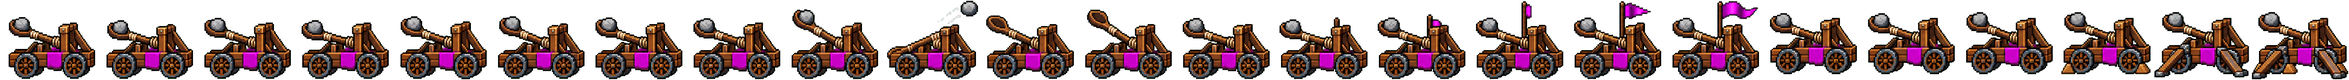
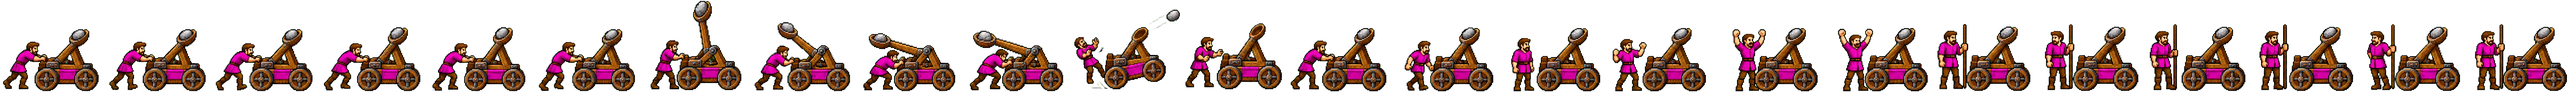
Animate the catapult from the user's redrawn sheet, its crewman winching and loosing the arm
The cutter registers the catapult by its wheels (the crewman crouches and
stumbles about the cart), and keeps a piece lying across a cell's edge whole
with the piece nearest it (the loosed stone with its trail) unless a thin seam
shows two drawings touching. The shot is eased over six frames and drops in a
short arc from where the sheet draws the stone, high over the foe.

diff --git a/tools/sprites/units/anim.ts b/tools/sprites/units/anim.ts
@@ -33,7 +33,7 @@ const here = (p: string) => resolve(fileURLToPath(new URL(p, import.meta.url)));
  * when drawn on a green screen; `align`, runs of frames (first, last) to put in register by the part of the figure that
  * stays put in them (`register`), with the `home` frame (the one the unit stands in).
  */
-type Align = [first: string, last: string, by: "legs" | "body"];
+type Align = [first: string, last: string, by: "legs" | "body" | "wheels"];
 type Sheet = { rows: string[][]; cell?: number; green?: boolean; align?: Align[]; home?: string };
 
 /**
@@ -100,7 +100,9 @@ const SHEETS: Record<string, Sheet> = {
   // follow-through 35 ahead, the walk drifting back 27 over its six steps): the walk by its body, the thrust, the
   // cheer and the watch by the feet planted under them; the kneeling as drawn, behind the shield that stays put.
   phalanx: oneSheet({ travel: "body", attack: "legs", won: "legs" }, ["lowering", "kneeling", "shield-wall"]),
-  catapult: oneSheet({ travel: "legs", attack: "legs", won: "legs" }),
+  // Its crewman crouches, steps away and stumbles back about the cart, so every run by the wheels (the cart drawn up
+  // to 14 pixels off from frame to frame; its loosed stone lies across the next cell's edge, kept with its trail).
+  catapult: oneSheet({ travel: "wheels", attack: "wheels", won: "wheels", fortify: "wheels" }),
 };
 /** Alpha over which a pixel is the frame's own (under it: soft edges, kept with their frame). */
 const SOLID = 64;
@@ -109,6 +111,8 @@ const SPECK = 500;
 const GRID_SPECK = 20;
 /** On a grid, a piece with at least this share of itself on each side of a cell's edge is two frames' drawings touching. */
 const STRADDLE = 0.1;
+/** ... and is split there only at a column this many times thinner than its thickest. */
+const THIN = 3;
 /** Pixels kept round each frame's bounds, and round the drawings on the canvas. */
 const MARGIN = 2;
 /** How far a soft pixel looks for the frame it belongs to. */
@@ -117,6 +121,8 @@ const REACH = 4;
 const FOOT_ROWS = 4;
 /** In registering frames, the share of the home frame's height (from the ground) that is its legs; the body is above it. */
 const LEGS = 0.45;
+/** ... and that is its wheels. */
+const WHEELS = 0.25;
 
 type Box = { x: number; y: number; w: number; h: number };
 const tuple = (b: Box) => `[${b.x}, ${b.y}, ${b.w}, ${b.h}]`;
@@ -167,7 +173,9 @@ function cut(unit: string, rows: string[][], cell?: number, green?: boolean, ali
   };
   if (cell) {
     // Drawings of two frames that touch across a cell's edge: split at the piece's thinnest column within an
-    // eighth of a cell of the edge.
+    // eighth of a cell of the edge, where it is thin (a third of its thickest column or less) and leaves a share of
+    // it each side. One with no such column is one thing lying across the edge (the catapult's stone flying off).
+    const astride = new Set<number>();
     for (const p of pieces.slice()) {
       for (let edge = (Math.floor(p.x / cell) + 1) * cell; edge <= p.x1; edge += cell) {
         const across = new Map<number, number>();
@@ -176,8 +184,13 @@ function cut(unit: string, rows: string[][], cell?: number, green?: boolean, ali
           for (let x = p.x; x <= p.x1; x++)
             if (owner[y * W + x] === p.id) { across.set(x, (across.get(x) ?? 0) + 1); if (x < edge) left++; }
         if (left < p.n * STRADDLE || p.n - left < p.n * STRADDLE) continue;
-        let seam = edge;
-        for (let x = edge - cell / 8; x <= edge + cell / 8; x++) if ((across.get(x) ?? 0) < (across.get(seam) ?? 0)) seam = x;
+        const thickest = Math.max(...across.values());
+        let seam = -1, before = 0;
+        for (let x = p.x; x <= Math.min(p.x1, edge + cell / 8); before += across.get(x) ?? 0, x++) {
+          if (x < edge - cell / 8 || before < p.n * STRADDLE || p.n - before < p.n * STRADDLE) continue;
+          if (seam < 0 || (across.get(x) ?? 0) < (across.get(seam) ?? 0)) seam = x;
+        }
+        if (seam < 0 || (across.get(seam) ?? 0) > thickest / THIN) { astride.add(p.id); continue; }
         const q = { id: pieces.length, x: W, y: H, x1: -1, y1: -1, w: 0, h: 0, n: 0 };
         const kept = { x: W, y: H, x1: -1, y1: -1, n: 0 };
         for (let y = p.y; y <= p.y1; y++)
@@ -202,10 +215,34 @@ function cut(unit: string, rows: string[][], cell?: number, green?: boolean, ali
       m[0] += i % W; m[1] += Math.floor(i / W);
       middle.set(o, m);
     }
+    // A piece lying across an edge goes with the piece nearest it (the stone with its trail), whose middle says where.
+    const nearest = (p: Piece): number => {
+      const seen = new Uint8Array(W * H);
+      let front: number[] = [];
+      for (let y = p.y; y <= p.y1; y++) for (let x = p.x; x <= p.x1; x++) if (owner[y * W + x] === p.id) { seen[y * W + x] = 1; front.push(y * W + x); }
+      for (let step = 0; step < cell / 4 && front.length; step++) {
+        const next: number[] = [];
+        for (const i of front)
+          for (let dy = -1; dy <= 1; dy++)
+            for (let dx = -1; dx <= 1; dx++) {
+              const x = (i % W) + dx, y = Math.floor(i / W) + dy, j = y * W + x;
+              if (x < 0 || y < 0 || x >= W || y >= H || seen[j]) continue;
+              seen[j] = 1;
+              const o = owner[j]!;
+              if (o >= 0 && !astride.has(o)) return o;
+              next.push(j);
+            }
+        front = next;
+      }
+      throw new Error(`${unit}: a piece at ${p.x},${p.y} lies across a cell's edge with nothing near it`);
+    };
     const cells: Piece[][] = rows.flatMap((r) => r.map(() => []));
     const specks: Piece[][] = rows.flatMap((r) => r.map(() => []));
     for (const p of pieces) {
-      const [sx, sy] = middle.get(p.id)!;
+      const by = astride.has(p.id) ? pieces[nearest(p)]! : p;
+      if (by !== p) console.log(`  a piece across a cell's edge at ${p.x}-${p.x1},${p.y}-${p.y1} goes with the one at ${by.x}-${by.x1},${by.y}-${by.y1}`);
+      const [mx, my] = middle.get(by.id)!;
+      const [sx, sy] = [(mx / by.n) * p.n, (my / by.n) * p.n];
       const col = Math.floor(sx / p.n / cell), row = Math.floor(sy / p.n / cell);
       const named = row < rows.length && col < rows[row]!.length;
       const n = named ? rows.slice(0, row).reduce((a, r) => a + r.length, 0) + col : -1;
@@ -277,9 +314,11 @@ function cut(unit: string, rows: string[][], cell?: number, green?: boolean, ali
 
   // Frames drawn out of register (a generated sheet sets its figure a little differently in each cell, so it would
   // shuffle to and fro as it moves): each run named in `align` put in register by the part of the figure that stays put
-  // in it, its legs (a thrust, a cheer: the feet planted) or its body above them (a walk: the legs swing under a body
-  // going steadily on), each frame with the run's first and that with the home frame, by the shift across that lays
-  // most of their pixels in that part on each other's (the smaller shift on a tie). Only the anchors move.
+  // in it, its legs (a thrust, a cheer: the feet planted), its body above them (a walk: the legs swing under a body
+  // going steadily on) or its wheels, the lowest quarter of it (an engine's, which outweigh its crew's feet there as
+  // they crouch and stumble behind it; its cart rocking up off its front wheel as it shoots kicks back), each frame
+  // with the run's first and that with the home frame, by the shift across that lays most of their pixels in that part
+  // on each other's (the smaller shift on a tie). Only the anchors move.
   if (align?.length) {
     const names = rows.flat();
     const at = (name: string) => {
@@ -305,7 +344,7 @@ function cut(unit: string, rows: string[][], cell?: number, green?: boolean, ali
     const knee = R - Math.round(LEGS * tall);
     // How far across frame b's figure stands from frame a's, by the part `by`.
     const register = (a: number, b: number, by: Align[2]): number => {
-      const [y0, y1] = by === "legs" ? [knee, R] : [R - tall, knee];
+      const [y0, y1] = by === "body" ? [R - tall, knee] : by === "legs" ? [knee, R] : [R - Math.round(WHEELS * tall), R];
       let best = 0, most = -1;
       for (let k = 0; k <= R / 2; k++) {
         const s = k % 2 ? (k + 1) / 2 : -k / 2;

diff --git a/packages/renderer-api/src/unit-atlas.ts b/packages/renderer-api/src/unit-atlas.ts
@@ -134,33 +134,33 @@ export const UNIT_ATLASES: Record<string, UnitAtlas> = {
     ],
   },
   catapult: {
-    size: [249, 206],
-    anchor: [124, 204],
+    size: [273, 236],
+    anchor: [127, 234],
     frames: [
-      { name: "travel-1", source: [24, 56, 224, 163], anchor: [128, 218], box: [22, 44, 220, 159] },
-      { name: "travel-2", source: [280, 64, 224, 155], anchor: [384, 218], box: [22, 52, 220, 151] },
-      { name: "travel-3", source: [536, 58, 224, 161], anchor: [640, 218], box: [22, 46, 220, 157] },
-      { name: "travel-4", source: [790, 64, 226, 155], anchor: [896, 218], box: [20, 52, 222, 151] },
-      { name: "travel-5", source: [1048, 54, 225, 166], anchor: [1152, 218], box: [22, 42, 221, 162] },
-      { name: "travel-6", source: [1304, 54, 224, 165], anchor: [1408, 218], box: [22, 42, 220, 161] },
-      { name: "ready", source: [23, 313, 225, 163], anchor: [128, 474], box: [21, 45, 221, 159] },
-      { name: "anticipation", source: [279, 315, 225, 161], anchor: [384, 474], box: [21, 47, 221, 157] },
-      { name: "wind-up", source: [536, 292, 224, 184], anchor: [640, 474], box: [22, 24, 220, 180] },
-      { name: "strike", source: [786, 270, 235, 206], anchor: [896, 474], box: [16, 2, 231, 202] },
-      { name: "follow-through", source: [1045, 307, 227, 168], anchor: [1152, 474], box: [19, 39, 223, 164] },
-      { name: "recovery", source: [1304, 293, 224, 182], anchor: [1408, 474], box: [22, 25, 220, 178] },
-      { name: "won-1", source: [23, 569, 225, 162], anchor: [128, 729], box: [21, 46, 221, 158] },
-      { name: "won-2", source: [276, 568, 228, 163], anchor: [384, 729], box: [18, 45, 224, 159] },
-      { name: "won-3", source: [533, 560, 227, 171], anchor: [640, 729], box: [19, 37, 223, 167] },
-      { name: "won-4", source: [790, 526, 226, 205], anchor: [896, 729], box: [20, 3, 222, 201] },
-      { name: "won-5", source: [1046, 526, 226, 205], anchor: [1152, 729], box: [20, 3, 222, 201] },
-      { name: "won-6", source: [1304, 526, 224, 205], anchor: [1408, 729], box: [22, 3, 220, 201] },
-      { name: "sentry-1", source: [23, 819, 225, 161], anchor: [128, 991], box: [21, 34, 221, 157] },
-      { name: "sentry-2", source: [279, 819, 225, 161], anchor: [384, 991], box: [21, 34, 221, 157] },
-      { name: "sentry-3", source: [536, 816, 225, 164], anchor: [640, 991], box: [22, 31, 221, 160] },
-      { name: "fortify-1", source: [785, 816, 231, 164], anchor: [896, 991], box: [15, 31, 227, 160] },
-      { name: "fortify-2", source: [1029, 816, 245, 173], anchor: [1152, 991], box: [3, 31, 241, 169] },
-      { name: "fortify-3", source: [1284, 816, 249, 177], anchor: [1408, 991], box: [2, 31, 245, 173] },
+      { name: "travel-1", source: [6, 50, 247, 163], anchor: [127, 211], box: [8, 75, 243, 159] },
+      { name: "travel-2", source: [261, 50, 249, 163], anchor: [385, 211], box: [5, 75, 245, 159] },
+      { name: "travel-3", source: [516, 50, 250, 163], anchor: [642, 211], box: [3, 75, 246, 159] },
+      { name: "travel-4", source: [774, 45, 249, 168], anchor: [898, 211], box: [5, 70, 245, 164] },
+      { name: "travel-5", source: [1035, 45, 240, 168], anchor: [1156, 211], box: [8, 70, 236, 164] },
+      { name: "travel-6", source: [1284, 50, 249, 163], anchor: [1408, 211], box: [5, 75, 245, 159] },
+      { name: "ready", source: [16, 251, 235, 233], anchor: [128, 485], box: [17, 2, 231, 229] },
+      { name: "anticipation", source: [268, 306, 247, 181], anchor: [389, 485], box: [8, 57, 243, 177] },
+      { name: "wind-up", source: [536, 334, 238, 153], anchor: [653, 485], box: [12, 85, 234, 149] },
+      { name: "strike", source: [784, 328, 241, 159], anchor: [903, 485], box: [10, 79, 237, 155] },
+      { name: "follow-through", source: [1027, 274, 273, 208], anchor: [1154, 485], box: [2, 25, 269, 204] },
+      { name: "recovery", source: [1277, 309, 250, 173], anchor: [1394, 485], box: [12, 60, 246, 169] },
+      { name: "won-1", source: [6, 565, 247, 166], anchor: [128, 729], box: [7, 72, 243, 162] },
+      { name: "won-2", source: [281, 563, 229, 168], anchor: [386, 729], box: [24, 70, 225, 164] },
+      { name: "won-3", source: [536, 565, 230, 166], anchor: [643, 729], box: [22, 72, 226, 162] },
+      { name: "won-4", source: [777, 565, 241, 166], anchor: [899, 729], box: [7, 72, 237, 162] },
+      { name: "won-5", source: [1056, 565, 220, 166], anchor: [1146, 729], box: [39, 72, 216, 162] },
+      { name: "won-6", source: [1302, 565, 232, 166], anchor: [1397, 729], box: [34, 72, 228, 162] },
+      { name: "sentry-1", source: [13, 792, 240, 176], anchor: [128, 966], box: [14, 62, 236, 172] },
+      { name: "sentry-2", source: [268, 792, 242, 175], anchor: [383, 966], box: [14, 62, 238, 171] },
+      { name: "sentry-3", source: [519, 792, 247, 176], anchor: [640, 966], box: [8, 62, 243, 172] },
+      { name: "fortify-1", source: [779, 792, 242, 176], anchor: [894, 966], box: [14, 62, 238, 172] },
+      { name: "fortify-2", source: [1036, 792, 240, 175], anchor: [1150, 966], box: [15, 62, 236, 171] },
+      { name: "fortify-3", source: [1294, 792, 238, 175], anchor: [1407, 966], box: [16, 62, 234, 171] },
     ],
   },
 };

diff --git a/packages/renderer-api/tests/unit-anim.test.ts b/packages/renderer-api/tests/unit-anim.test.ts
@@ -234,7 +234,7 @@ describe("the catapult's atlas", () => {
   const move = UNIT_ANIMS.catapult!;
   const frame = (name: string) => catapult.frames.find((f) => f.name === name)!;
 
-  it("has the sheet's 24 frames in the one sheet's rows, drawn in register: each its cell's middle on its row's ground", () => {
+  it("has the sheet's 24 frames in the one sheet's rows, put in register by the wheels: each near its cell's middle on its row's ground", () => {
     expect(catapult.frames.map((f) => f.name)).toEqual([
       ...[1, 2, 3, 4, 5, 6].map((n) => `travel-${n}`),
       "ready", "anticipation", "wind-up", "strike", "follow-through", "recovery",
@@ -245,15 +245,20 @@ describe("the catapult's atlas", () => {
     catapult.frames.forEach((f, n) => {
       const [x, y, bw, bh] = f.box;
       expect(x >= 0 && y >= 0 && x + bw <= w && y + bh <= h, f.name).toBe(true);
-      expect(f.anchor[0], f.name).toBe((n % 6) * 256 + 128);
+      // The cart drawn a little off from cell to cell, its wheels laid on the standing frame's (the cutter's `align`).
+      expect(Math.abs(f.anchor[0] - ((n % 6) * 256 + 128)), f.name).toBeLessThanOrEqual(16);
+      expect(f.anchor[1], f.name).toBe(catapult.frames[n - (n % 6)]!.anchor[1]);
     });
-    // The stone loosed on the strike flies off with its trail, the dots at its tail too, above the arm drawn down.
-    expect(frame("strike").box[1]).toBeLessThan(frame("ready").box[1]);
-    expect(frame("strike").source[0]).toBeLessThanOrEqual(917);
+    // The stone loosed on the release flies off with its trail, lying across the next cell's edge: kept with the
+    // release (its source reaching past the edge and up to the stone), not the frame after it.
+    const [rx, ry, rw] = frame("follow-through").source;
+    expect(rx + rw).toBeGreaterThan(1280 + 16);
+    expect(ry).toBeLessThanOrEqual(276);
+    expect(frame("recovery").source[1]).toBeGreaterThan(305);
   });
 
   it("plays the one sheet's moves, between as wide and as much of its square as the catapult's picture stood", () => {
-    expect(move).toMatchObject({ idle: 18, fortified: 23, ownerColour: false, attack: { impact: 2 } });
+    expect(move).toMatchObject({ idle: 18, fortified: 23, ownerColour: false, attack: { frames: [6, 7, 8, 9, 10, 11], impact: 4 } });
     expect(move.travel!.frames).toEqual(UNIT_ANIMS.phalanx!.travel!.frames);
     const b = unitArtPlace({ id: "catapult", unit: true, x: 0, y: 0, w: 16, h: 16 })!;
     const k = b.w / catapult.size[0];
@@ -471,10 +476,10 @@ describe("UnitAnimator", () => {
     expect(m.at(shot.releaseMs - 1).battle!.shot).toBeUndefined();
     const leaving = m.at(shot.releaseMs).battle!.shot!;
     expect([leaving.x, leaving.y]).toEqual([10 + shot.from.x, 10 + shot.from.y]);
-    // It rises above the straight way, its shadow on the ground under it, and comes down before the foe's feet.
+    // It arcs above the straight way, its shadow on the ground under it, and comes down before the foe's feet.
     const mid = m.at((shot.releaseMs + land) / 2).battle!.shot!;
     expect(mid.y).toBeCloseTo((leaving.y + 10.9) / 2 - UNIT_ANIMS.catapult!.attack!.shot!.arc, 6);
-    expect(mid.y).toBeLessThan(leaving.y - 0.2);
+    expect(mid.y).toBeLessThan((leaving.y + 10.9) / 2 - 0.2);
     expect(mid.ground).toBeGreaterThan(mid.y);
     const down = m.at(land + 1).battle!;
     expect(down.shot).toMatchObject({ x: 11.2, y: 10.9 });
@@ -511,11 +516,13 @@ describe("UnitAnimator", () => {
     for (let t = 0; t < 1200; t += 50) expect(anim2.update(state, d.at(t).battle, t).frames[c.id]).toBe(UNIT_ANIMS.catapult!.idle);
   });
 
-  it("eases the catapult's shot in and out: held, drawn up slowly, quick as the stone leaves, settling slowly", () => {
-    const [ready, drawn, loosed, recoil, spent] = UNIT_ANIMS.catapult!.attack!.ms as [number, number, number, number, number];
-    expect(loosed).toBeLessThan(Math.min(ready, drawn, recoil, spent));
-    expect(ready + drawn).toBeGreaterThan(600);
-    expect(spent).toBeGreaterThan(recoil);
+  it("eases the catapult's shot in and out: raised and winched down slowly, held longest, quick as the stone leaves, settling slowly", () => {
+    const [raised, drawn, cocked, held, loosed, spent] = UNIT_ANIMS.catapult!.attack!.ms as [number, number, number, number, number, number];
+    expect(loosed).toBeLessThan(Math.min(raised, drawn, cocked, held, spent));
+    expect(raised + drawn + cocked + held).toBeGreaterThan(900);
+    expect(held).toBeGreaterThan(Math.max(raised, drawn, cocked));
+    expect(Math.min(raised, cocked)).toBeGreaterThan(drawn);
+    expect(spent).toBeGreaterThan(held);
   });
 });
 

diff --git a/packages/renderer-api/src/unit-anim.ts b/packages/renderer-api/src/unit-anim.ts
@@ -149,18 +149,21 @@ export const UNIT_ANIMS: Record<string, UnitAnimRule> = {
   // a square): its shield (67x80 here, 71x76 there: 290) and its crest to its feet (209 here, 198 there: 302) between
   // them. The still picture's spear is drawn longer, so the sheet's stands a little shorter in the square.
   phalanx: oneSheet(296),
-  // The catapult (2026-10-31, the user's sheet: "implement attached catapult states"): rolling on its turning wheels;
-  // the arm drawn down, swung up to loose the stone (the stone and its trail on the strike), empty after; a flag run up
-  // as it wins; still on watch; fortifying, its wheels chocked and props braced out. Drawn lower and longer than the
-  // catapult's picture on the units sheet (221x157 here, 192x197 there at 240 a square), so between as wide as that
-  // (276) and as much of the square (230). Its shot (asked for the same day: "too fast. should be with ease in-out.
-  // slow prepare to fire - than throw stone", then "still very bad": it lunged onto its foe, jiggled with every blow and
-  // its stone went nowhere): it stands its ground and shoots once a fight, holding the loaded arm, drawing it up
-  // slowly, then quick as the stone leaves (the sheet's frame of it; its second loaded frame is the first again, left
-  // out), the spent arm settling slowly; the stone flies on from where the sheet draws it (41 pixels across, its middle
-  // 100 right of the frame's foot and 183 above) to its foe's feet, and the first blow lands with it (`strikeMs`).
+  // The catapult (2026-10-31, the user's sheet: "implement attached catapult states", redrawn the same day with its
+  // crewman: "implement attached updated catapult sprite-sheet"): he pushes it on its turning wheels; raises the loaded
+  // arm upright, winches it back and down to cocked, holds it, and lets go: the arm slams up, the stone flies off with
+  // its trail, the cart bucks and he stumbles back; then it rests empty; he steps away from it and cheers, arms up; he
+  // stands watch beside it with his staff. As wide as the first sheet's catapult alone (236x172 standing, the cart
+  // smaller beside him), so at its scale: between as wide as the picture on the units sheet (192x197 there at 240 a
+  // square: 295) and as much of the square (249). Its shot (asked for the same day: "too fast. should be with ease
+  // in-out. slow prepare to fire - than throw stone", then "still very bad": it lunged onto its foe, jiggled with every
+  // blow and its stone went nowhere): it stands its ground and shoots once a fight, eased in and out: the arm raised and
+  // winched down slowly, held longest, then quick as the stone leaves (the sheet's frame of it), the spent arm settling
+  // slowly; the stone flies on from where the sheet draws it (34 pixels across, its middle 127 right of the frame's foot
+  // and 194 above: near the top of its square, over its foe's), comes down on its foe's feet in a short drop, and the
+  // first blow lands with it (`strikeMs`).
   catapult: oneSheet(252, {
-    attack: { frames: [6, 8, 9, 10, 11], ms: [320, 460, 110, 240, 420], impact: 2, shot: { from: [100, -183], flightMs: 440, arc: 0.6 } },
+    attack: { frames: [6, 7, 8, 9, 10, 11], ms: [260, 220, 260, 300, 110, 480], impact: 4, shot: { from: [127, -194], flightMs: 340, arc: 0.25 } },
   }),
 };
 

diff --git a/CLAUDE.md b/CLAUDE.md
@@ -961,7 +961,7 @@ Never ship the original's sprites, palette art, fonts or text.
   fast ... slow prepare to fire - than throw stone"; `strikeMs`, `MotionTiming.strikeMs` from the web app's own moves
   and the other civs' playback, `BattleFrame.strikeMs`; never sooner than `LUNGE_MS`, 150, the attacker standing its
   ground until the last of it, the rounds after at their pace, so the fight is that much longer: the militia's and the
-  hoplite's 320 ms, the catapult's 870; until then the wind-up was squeezed into the 150), so the strike lands with the
+  hoplite's 320 ms, the catapult's 1490 with its stone's flight; until then the wind-up was squeezed into the 150), so the strike lands with the
   first blow; the defender answers from that blow at its own pace; each strike is reported as it lands
   (`UnitPoses.impacts`), and the fight no longer shown, back to its orders. Combat itself is untouched. `unitArtPlace` stands every frame's canvas in the same box (the idle
   drawing centred, its foot a fine pixel up), so feet stay put. The magenta clothes take the owner's colour
@@ -1056,19 +1056,26 @@ Never ship the original's sprites, palette art, fonts or text.
   drawn, behind the shield that stays put. Preview: `?unit=phalanx`.
   Every sheet in that layout is one entry in the cutter (`oneSheet` in anim.ts: its rows' names and what each run is
   registered by) and one in `UNIT_ANIMS` (`oneSheet(square)` in unit-anim.ts: the rows' moves and timings). The
-  catapult (2026-10-31, asked for with the user's sheet: "implement attached catapult states"; drawn in register):
-  rolling on turning wheels, the arm drawn down then swung up to loose its stone, a flag run up as it wins, still on
-  watch, its wheels chocked and props braced out to fortify; drawn lower and longer than its still picture, so scale
-  252, between as wide as that (276) and as much of the square (230). Its shot (asked for the same day: "too fast.
-  should be with ease in-out. slow prepare to fire - than throw stone", then "still very bad": it lunged onto its foe
-  like a soldier, jiggled with each blow, and its stone only appeared at its own corner): it stands its ground and
-  shoots once a fight (`UnitShot` on its attack: `from`, where the release frame draws the stone, atlas pixels from that
-  frame's foot; `flightMs` 440; `arc` 0.6 of a square), holding the loaded arm (320 ms), drawing it up slowly (460),
-  quick as the stone leaves on the sheet's frame of it (110; the sheet's second loaded frame, the first again, left
-  out), the spent arm settling (240, 420) and held so till its flag goes up. The map carries the stone on from that
-  frame's end (renderer-api `shotOf`, `MotionTiming.shot` from both pacings, `ShotPace`; `BattleFrame.shot`: where it is,
-  the ground under it, `landed`): an arc to the ground before its foe's feet (`SHOT_LANDS`), mirrored when it shoots
-  leftward, the first blow landing with it (`strikeMs` counts the release frame and the flight: 1330 ms), the attacker
+  catapult (2026-10-31, asked for with the user's sheet: "implement attached catapult states", redrawn the same day with
+  its crewman: "implement attached updated catapult sprite-sheet"): he pushes it on its turning wheels; raises the
+  loaded arm upright, winches it back and down to cocked, holds it, lets go (the arm slams up, the stone flies off with
+  its trail, the cart bucks, he stumbles back), and it rests empty; he steps away and cheers, arms up; he stands watch
+  beside it with his staff (the sheet's fortify frames are the watch again). As wide as the first sheet's catapult alone
+  (the cart drawn smaller beside him), so scale 252 still, between as wide as the still picture (295) and as much of
+  the square (249). He crouches, steps and stumbles about the cart, so the cutter registers every run by the wheels
+  (`align` "wheels": the lowest quarter of the picture, where they outweigh his feet; the cart is drawn up to 14 pixels
+  off from cell to cell, and kicks back 12 as it shoots). The loosed stone lies across the edge of the next cell: a
+  piece astride an edge is split only at a thin column (a third of its thickest or less), else it goes with the piece
+  nearest it (the stone with its trail). Its shot (asked for the same day: "too fast. should be with ease in-out. slow
+  prepare to fire - than throw stone", then "still very bad": it lunged onto its foe like a soldier, jiggled with each
+  blow, and its stone only appeared at its own corner): it stands its ground and shoots once a fight (`UnitShot` on its
+  attack: `from`, where the release frame draws the stone, atlas pixels from that frame's foot; `flightMs` 340; `arc`
+  0.25 of a square), eased in and out: raised (260 ms), winched down (220, 260), held longest (300), quick as the stone
+  leaves on the sheet's frame of it (110), the spent arm settling (480) and held so till he cheers. The map carries the
+  stone on from that frame's end (renderer-api `shotOf`, `MotionTiming.shot` from both pacings, `ShotPace`;
+  `BattleFrame.shot`: where it is, the ground under it, `landed`): the sheet draws it near the top of its square, over
+  its foe's, so it comes down in a short drop to the ground before its foe's feet (`SHOT_LANDS`), mirrored when it shoots
+  leftward, the first blow landing with it (`strikeMs` counts the release frame and the flight: 1490 ms), the attacker
   never closing in (no lunge, no jiggle); then the dust settles (`LANDED_MS` 380). Retro `shot.ts`: a light grey ball
   five fine pixels across (the picture's stone at the map's scale) edged in its darkest, its shadow on the ground under
   it, then dust puffs dithered thinner as they spread and rise, clods falling back, a flash at the strike; on the map
